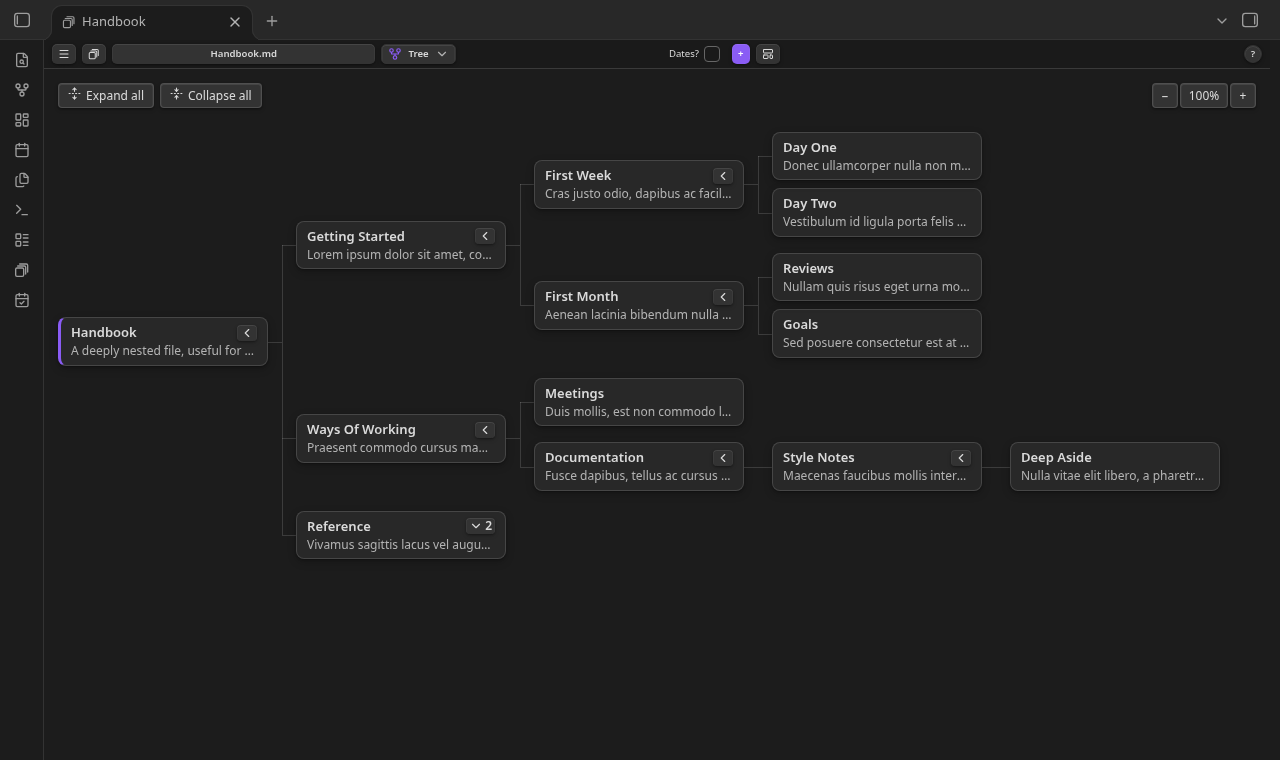
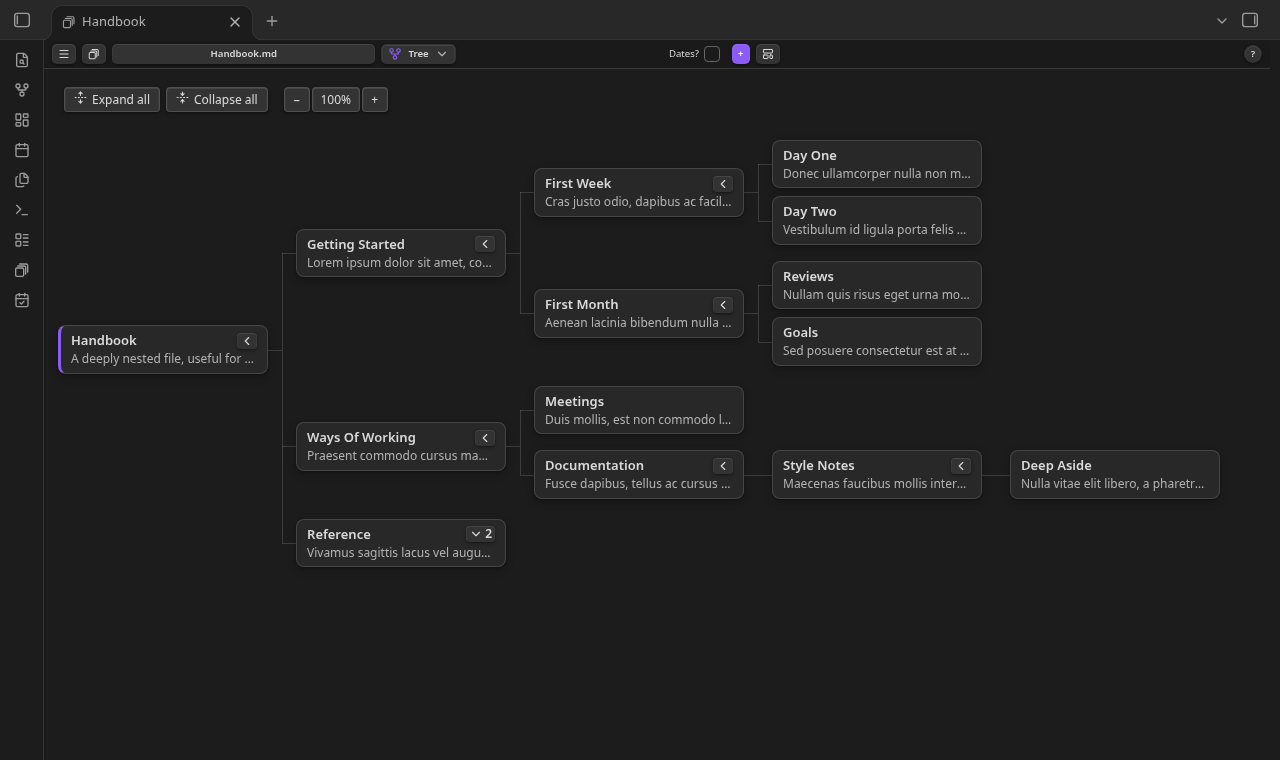
Tree: the bar with the fold and zoom buttons stays put while the tree scrolls
The bar is stuck to the pane's top and left edges, and the tree's box is now
the scroller both ways (the pane scrolled it vertically before, out from
under the bar), laid out as the Rolodex lays out its pane.

diff --git a/styles.css b/styles.css
@@ -2884,11 +2884,45 @@ body.is-mobile .is-layout-binder .section-card-body{
 	font-size: calc(var(--font-ui-small) * var(--sfsc-font-scale, 1));
 }
 
-/* Expand all / Collapse all, a small row above the tree. */
+/* The tree's box is the scroller both ways (the pane would otherwise scroll it
+   vertically, out from under the sticky bar): toolbar fixed above, the box fills
+   the rest, as the Rolodex lays its pane out. */
+.workspace-leaf-content .view-content.section-cards-view.is-layout-tree {
+	display: flex;
+	flex-direction: column;
+	overflow: hidden;
+}
+
+.is-layout-tree .section-cards-toolbar {
+	position: static;
+	flex: 0 0 auto;
+}
+
+.is-layout-tree .section-cards-grid {
+	flex: 1 1 auto;
+	min-height: 0;
+}
+
+/* The wrap spans the whole scroll width, so the bar can stick within it. */
+.sc-tree-wrap {
+	width: max-content;
+	min-width: 100%;
+}
+
+/* Expand all / Collapse all and the zoom, a small row above the tree that stays put
+   while the tree scrolls under it — stuck to the pane's top and left edges. */
 .sc-tree-bar {
+	position: sticky;
+	top: 0;
+	left: 0;
+	z-index: 2;
 	display: flex;
 	gap: 6px;
+	width: max-content;
 	margin-bottom: 8px;
+	padding: 4px 6px;
+	border-radius: var(--radius-m, 8px);
+	background: var(--background-primary);
 }
 
 .sc-tree-bar-btn.is-hidden {
@@ -2900,7 +2934,7 @@ body.is-mobile .is-layout-binder .section-card-body{
 	display: flex;
 	gap: 2px;
 	order: 1; /* built first, shown last: the fold buttons keep the left */
-	margin-left: auto;
+	margin-left: 10px;
 }
 
 .sc-tree-zoom .sc-tree-bar-btn {
